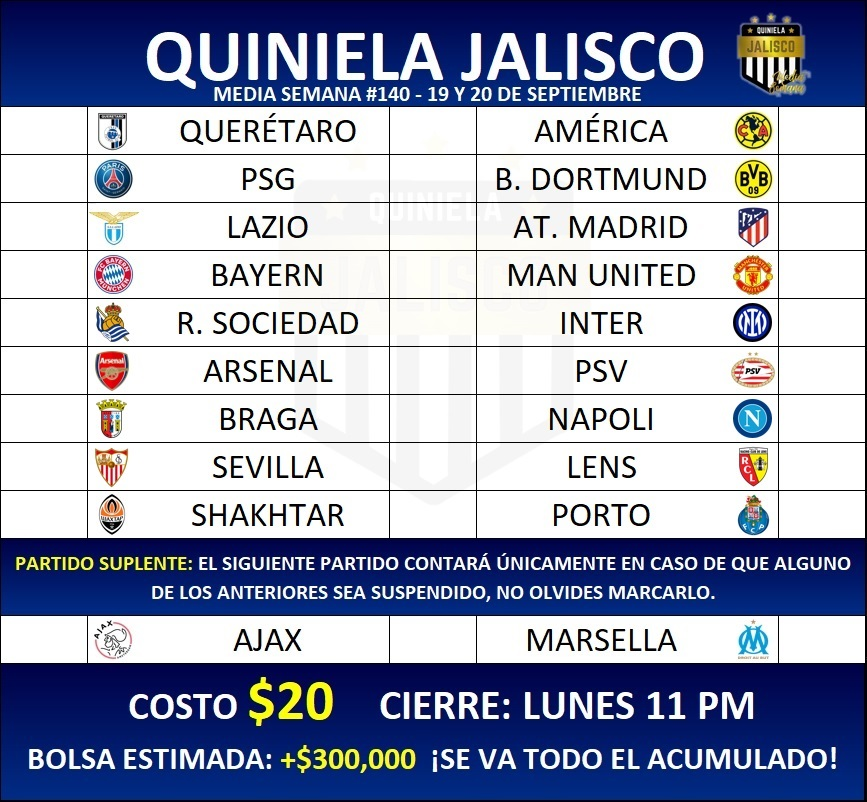
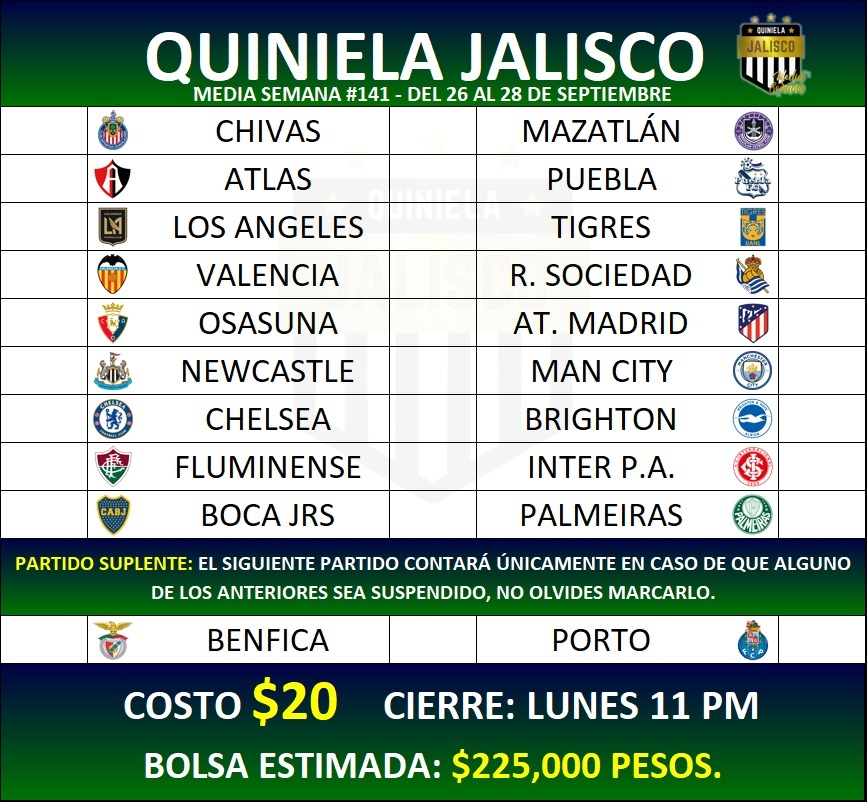
Media Semana #141

diff --git a/MediaSemana/stylesmSusp.css b/MediaSemana/stylesmSusp.css
@@ -93,8 +93,8 @@ body{
     margin-top: 9%;
     border: solid 1px black;
     border-radius: 0 0 14px 14px;
-    background: -webkit-linear-gradient(1turn, rgb(6,1,68)  ,rgb(0,22,98) 80%);
-    background: linear-gradient(1turn, rgb(6,1,68)  ,rgb(0,22,98) 80%);
+    background: -webkit-linear-gradient(1turn, rgb(0,8,65)  ,rgb(1,69,30) 80%);
+    background: linear-gradient(1turn, rgb(0,8,65)  ,rgb(1,69,30) 80%);
 }
 
 .text-lg{
@@ -289,7 +289,7 @@ h6{
 }
 
 #cantidad:before{
-    content:' +$300,000 pesos \A ¡Se reparte todo el acumulado!';
+    content:' $225,000 pesos';
     color: yellow;
     white-space:pre;
 }
